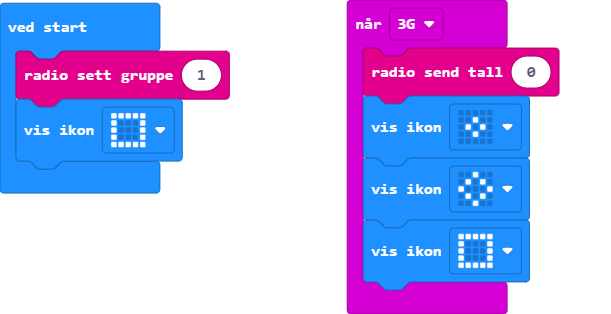
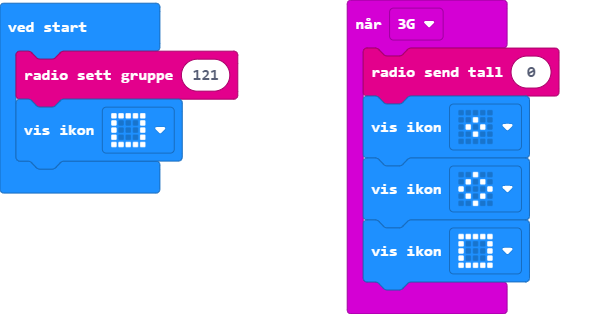
Oppdater main.blocks, main.ts

Changed region(s): [[0.311, 0.1433, 0.4043, 0.3153]]

diff --git a/main.ts b/main.ts
@@ -4,5 +4,5 @@ input.onGesture(Gesture.ThreeG, function () {
     basic.showIcon(IconNames.Diamond)
     basic.showIcon(IconNames.Square)
 })
-radio.setGroup(1)
+radio.setGroup(121)
 basic.showIcon(IconNames.Square)
